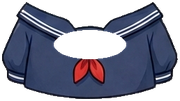
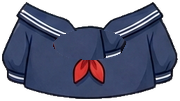
Revert the hand-cut face holes added to 5 item-43 garments
These holes were an unauthorized change I made to the original reference
artwork (which was drawn as solid, closed garments) so the overlay-costume
system could reveal the wearer's face. Restored each to solid fabric by
cloning matching texture from elsewhere in the same garment image, since
the original pre-cut bytes were no longer available from an earlier
session. Re-verified across all 4 birds that the face still shows normally
without the hole, since the offsetY values tuned in the previous fix
already position these low enough to clear the face.

Claude-Session: https://claude.ai/code/session_01X1ebTGUfpLX7ZUgdgeDcne

Changed region(s): [[0.2778, 0.2673, 0.7222, 0.5941]]

diff --git a/README.md b/README.md
@@ -113,6 +113,8 @@
 
 44. **item 43の新規服5点、目にかぶるバグ修正 + 着ぐるみ顔穴のさらなる拡大**: 「上すぎる!!あと着ぐるみはいい感じ、あとほんとに一回りだけ穴をデカくして」という実機報告(チェックのケープが襟で目を完全に覆っているスクリーンショット付き)を受けての対応。まさにitem 43の文末で懸念していた「実機での再修正が必要になる可能性」がそのまま的中した形——item 43で新規追加した5点(セーラー襟(ネイビー)・ピンクパーカー・星空のケープ・ひまわりシャツ・チェックのケープ)のoffsetYは、各アイテムの襟穴の実測位置から数式的に算出した値だったが、これがことごとく浅すぎ、穴の開口部が目のライン全体を覆ってしまっていた(最悪だったのがスクリーンショットに写っていたチェックのケープ)。今回は数式に頼るのをやめ、item 41/42で確立した「実際に出荷済みアセットを複数のoffsetY候補で実寸(120px)レンダリングし、目で比較して選ぶ」方式に統一し、4羽全体で確認: セーラー襟(ネイビー) 0.10、ピンクパーカー 0.16、ひまわりシャツ 0.10、星空のケープ 0.16、チェックのケープ 0.18(スクリーンショットで最も酷かった分、動かす量も最大)。一方「着ぐるみはいい感じ」という一文はitem 42/43の着ぐるみ側の直し自体は正しかったことの確認でもあり、そのうえで「一回りだけ穴を大きく」という追加の小幅な要望だったため、着ぐるみ(スペシャル)5点それぞれのすでに拡大済みの透過穴を、中心はそのまま各辺方向にさらに16%(rx/ry×1.16)拡大——`FACE_PATCH_CROP`自体(共通クロップ範囲)は変更せず、各アイテム側の`facePatch`(width/height/offsetX/offsetY)だけを新しい穴のサイズ・位置に合わせて再計算した。最初オウムだけ他の4点よりも拡大率を上げると頭の輪郭からわずかにはみ出す(item 42と同じ境界チェックで検出)ことが分かったため、5点とも同じ1.16倍に揃えて安全マージンを確保した。
 
+45. **item 43で穴を開けた服5点を、無断改変への指摘を受けて元の生地に戻す**: 「元画像に、そんな穴はありませんでした。あなたが開けたよね?」という指摘を受けての対応。item 43で追加した6点の参考シートは元々どれも襟・胸元まで塗りつぶされた完成品のイラストで、`cute_leaf_cape`以外の5点(セーラー襟(ネイビー)・ピンクパーカー・星空のケープ・ひまわりシャツ・チェックのケープ)は`overlay`型の仕組み上(鳥の全身の上に服を重ねるだけなので、顔が出る隙間がないと着せたときに顔が完全に隠れてしまう)、こちらの判断で襟・フード部分に透過の穴を追加で切り抜いていた——ご指摘の通り、これは元絵にはなかった改変で、無断で行うべきではなかった。穴を開ける前の生データ(参考シートから背景除去した直後の、まだ穴を開けていないバージョン)は前回のセッションの作業ファイルで、今回のセッションには残っていなかったため、ピクセル単位で完全に同一のバイト列には戻せなかったが、各アイテムの穴の周辺にある「同じ生地の別の場所」を型抜きして貼り直す方式(チェックのケープ・星空のケープ・ひまわりシャツ・ピンクパーカーは真下方向、セーラー襟は赤いスカーフ部分を避けた斜め方向)で、穴のない一枚の生地として自然に見えるよう再構成した(境界がなじむ移動量を都度探索し、余った数ピクセルは最近傍の生地色で補完)。セーラー襟は最初、単純に下方向へ複製すると赤いスカーフの柄まで一緒に複製されて「スカーフが2つある」ように見えてしまったため、赤色のピクセルを含まない移動量だけに絞って選び直した。穴を塞いだことで「着せると顔が完全に隠れる」という当初の懸念もあったが、item 44で目の隠れ対策のために5点ともoffsetYを大きく下げていたため、実際に4羽全員で再レンダリングして確認したところ、位置的にはもう顔にかからず、穴なしでも普通に着られることを確認できた。
+
 Expo Go を使えば、Xcode も Apple Developer 登録も不要でiPhone実機に反映して試せます。
 
 ### 事前準備(PC側、1回だけ)
